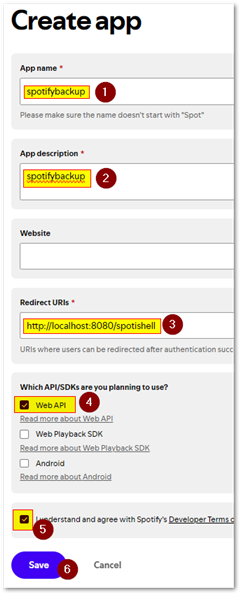
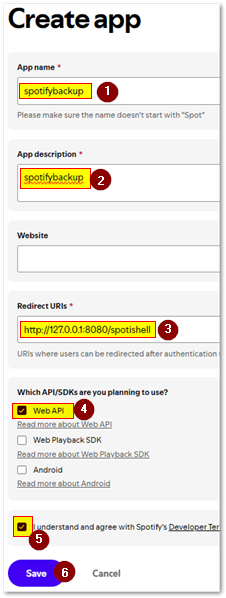
Update localhost url to 127.0.0.1 because of Spotify new policy

diff --git a/README.md b/README.md
@@ -10,7 +10,7 @@ You first need to create a Spotify Application.
 **Step1**: Go to the [Spotify for Developers](https://developer.spotify.com/dashboard) Dashboard and create an app:  
  - App name : `spotifybackup`
  - App description : `spotifybackup`
- - Redirect URI : `http://localhost:8080/spotishell`
+ - Redirect URI : `http://127.0.0.1:8080/spotishell`
 
 ![step1.1.png](https://github.com/Domochip/spotifybackup/raw/master/img/step1.1.png) ![step1.2.png](https://github.com/Domochip/spotifybackup/raw/master/img/step1.2.png)  
 **Step2**: Collect Client ID and Secret  
